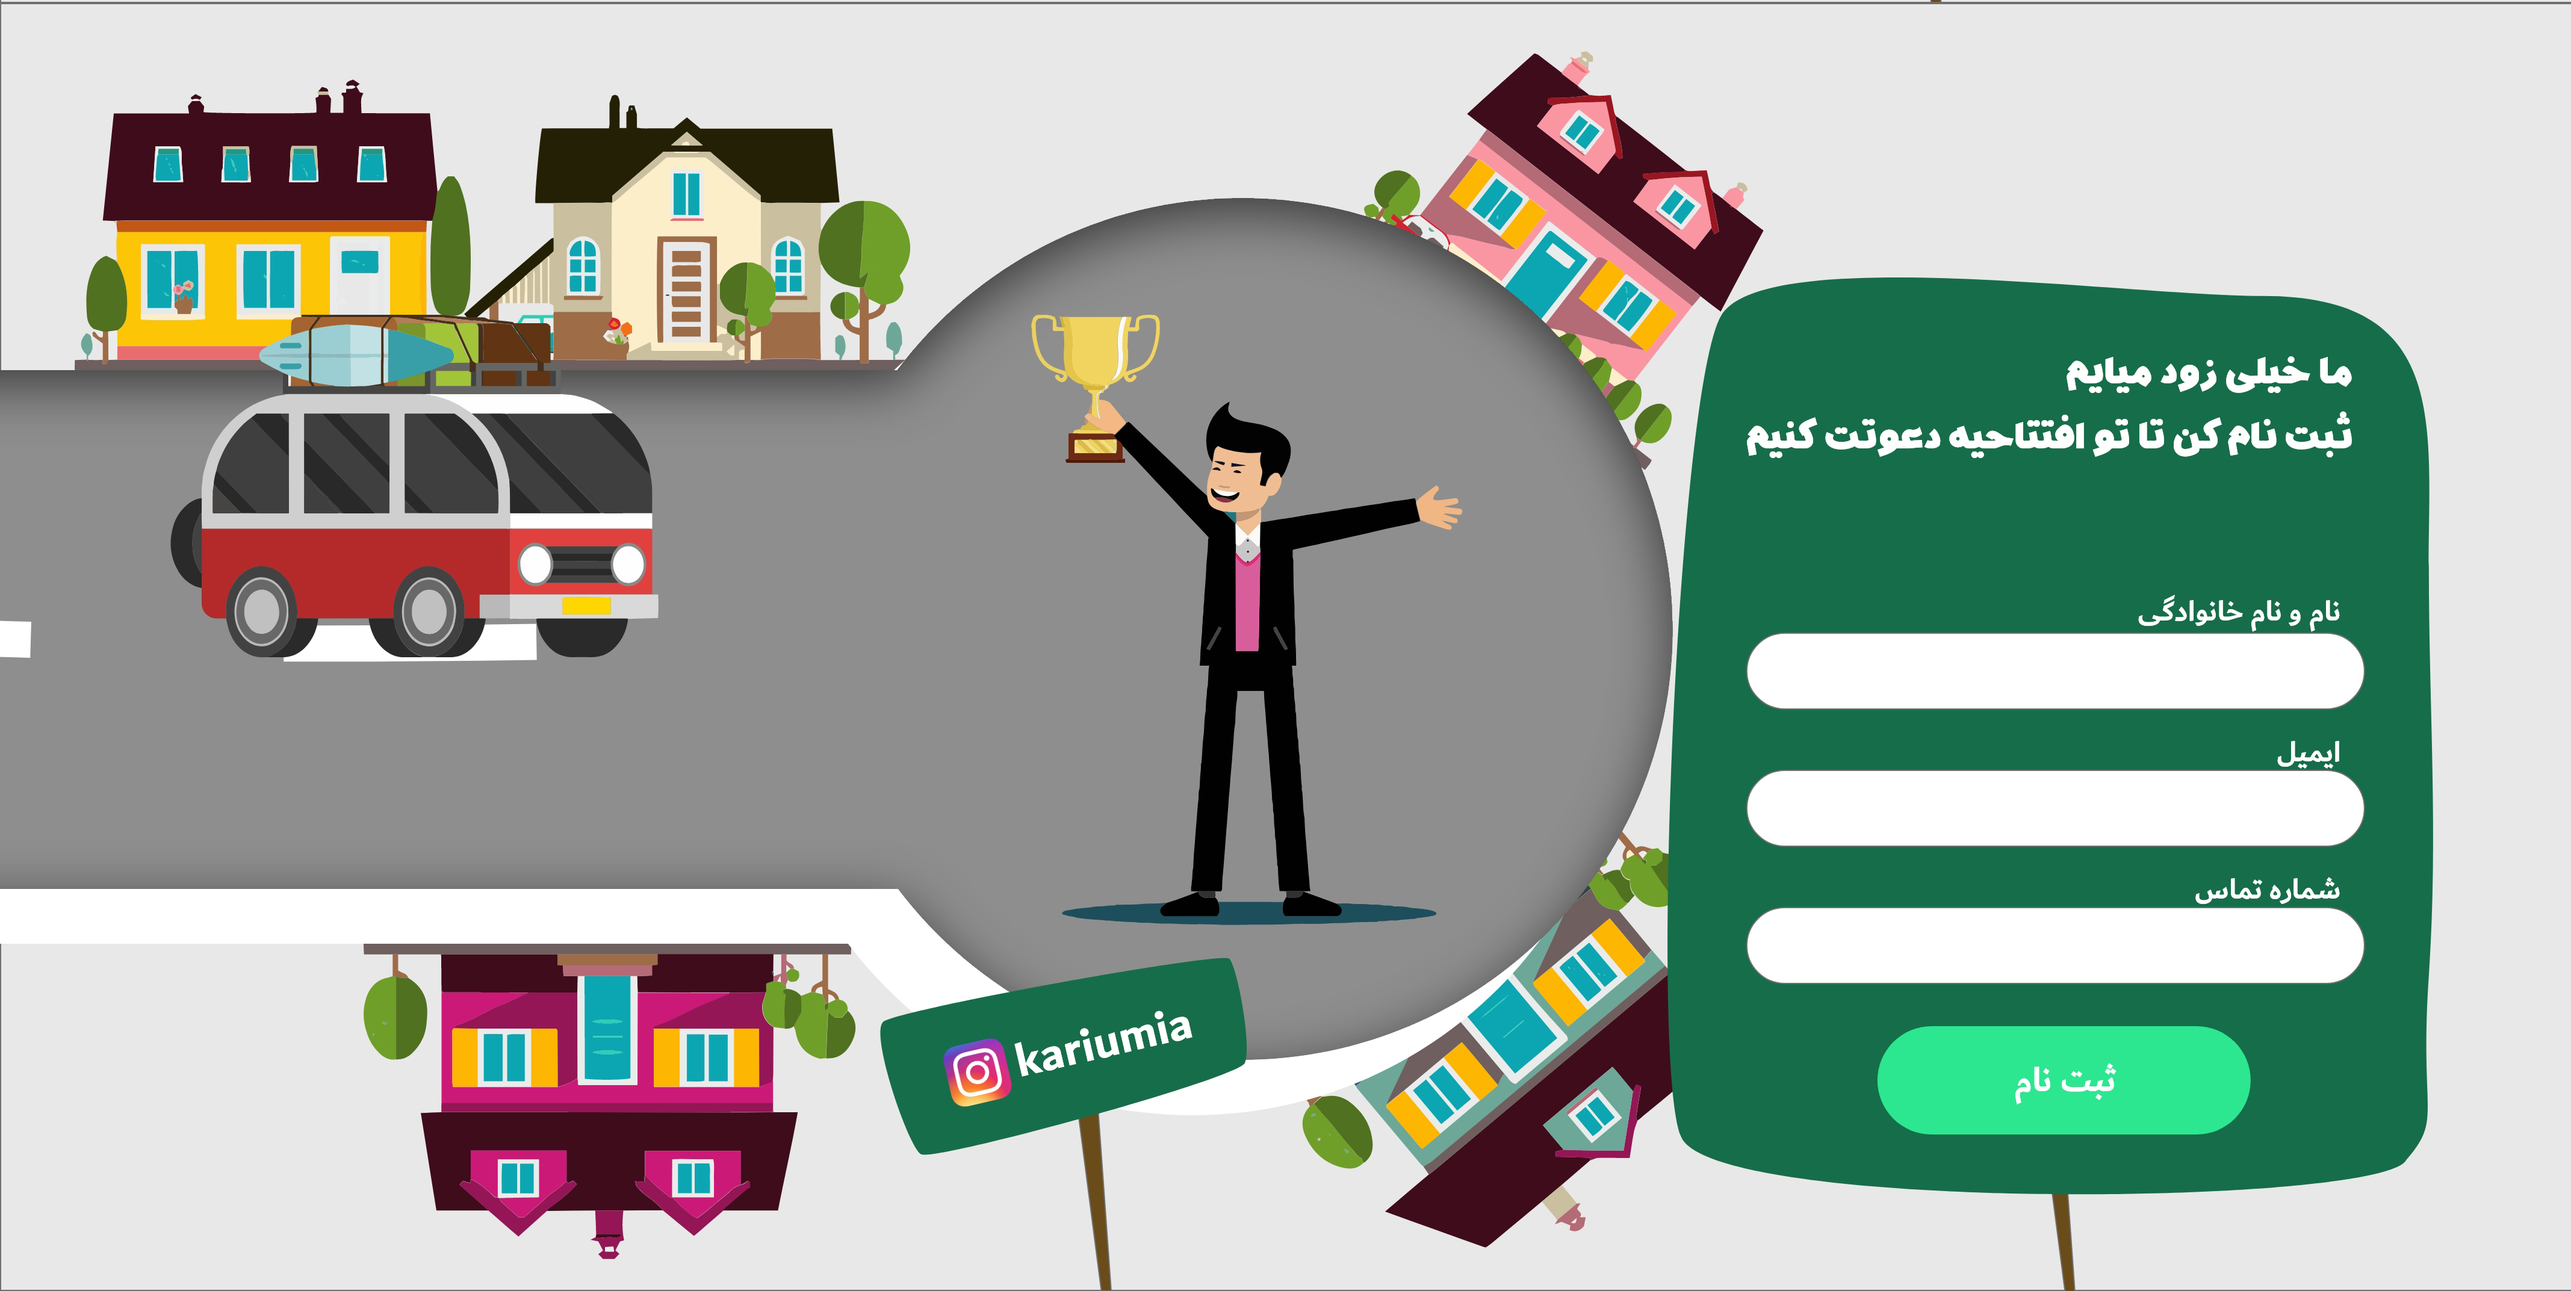
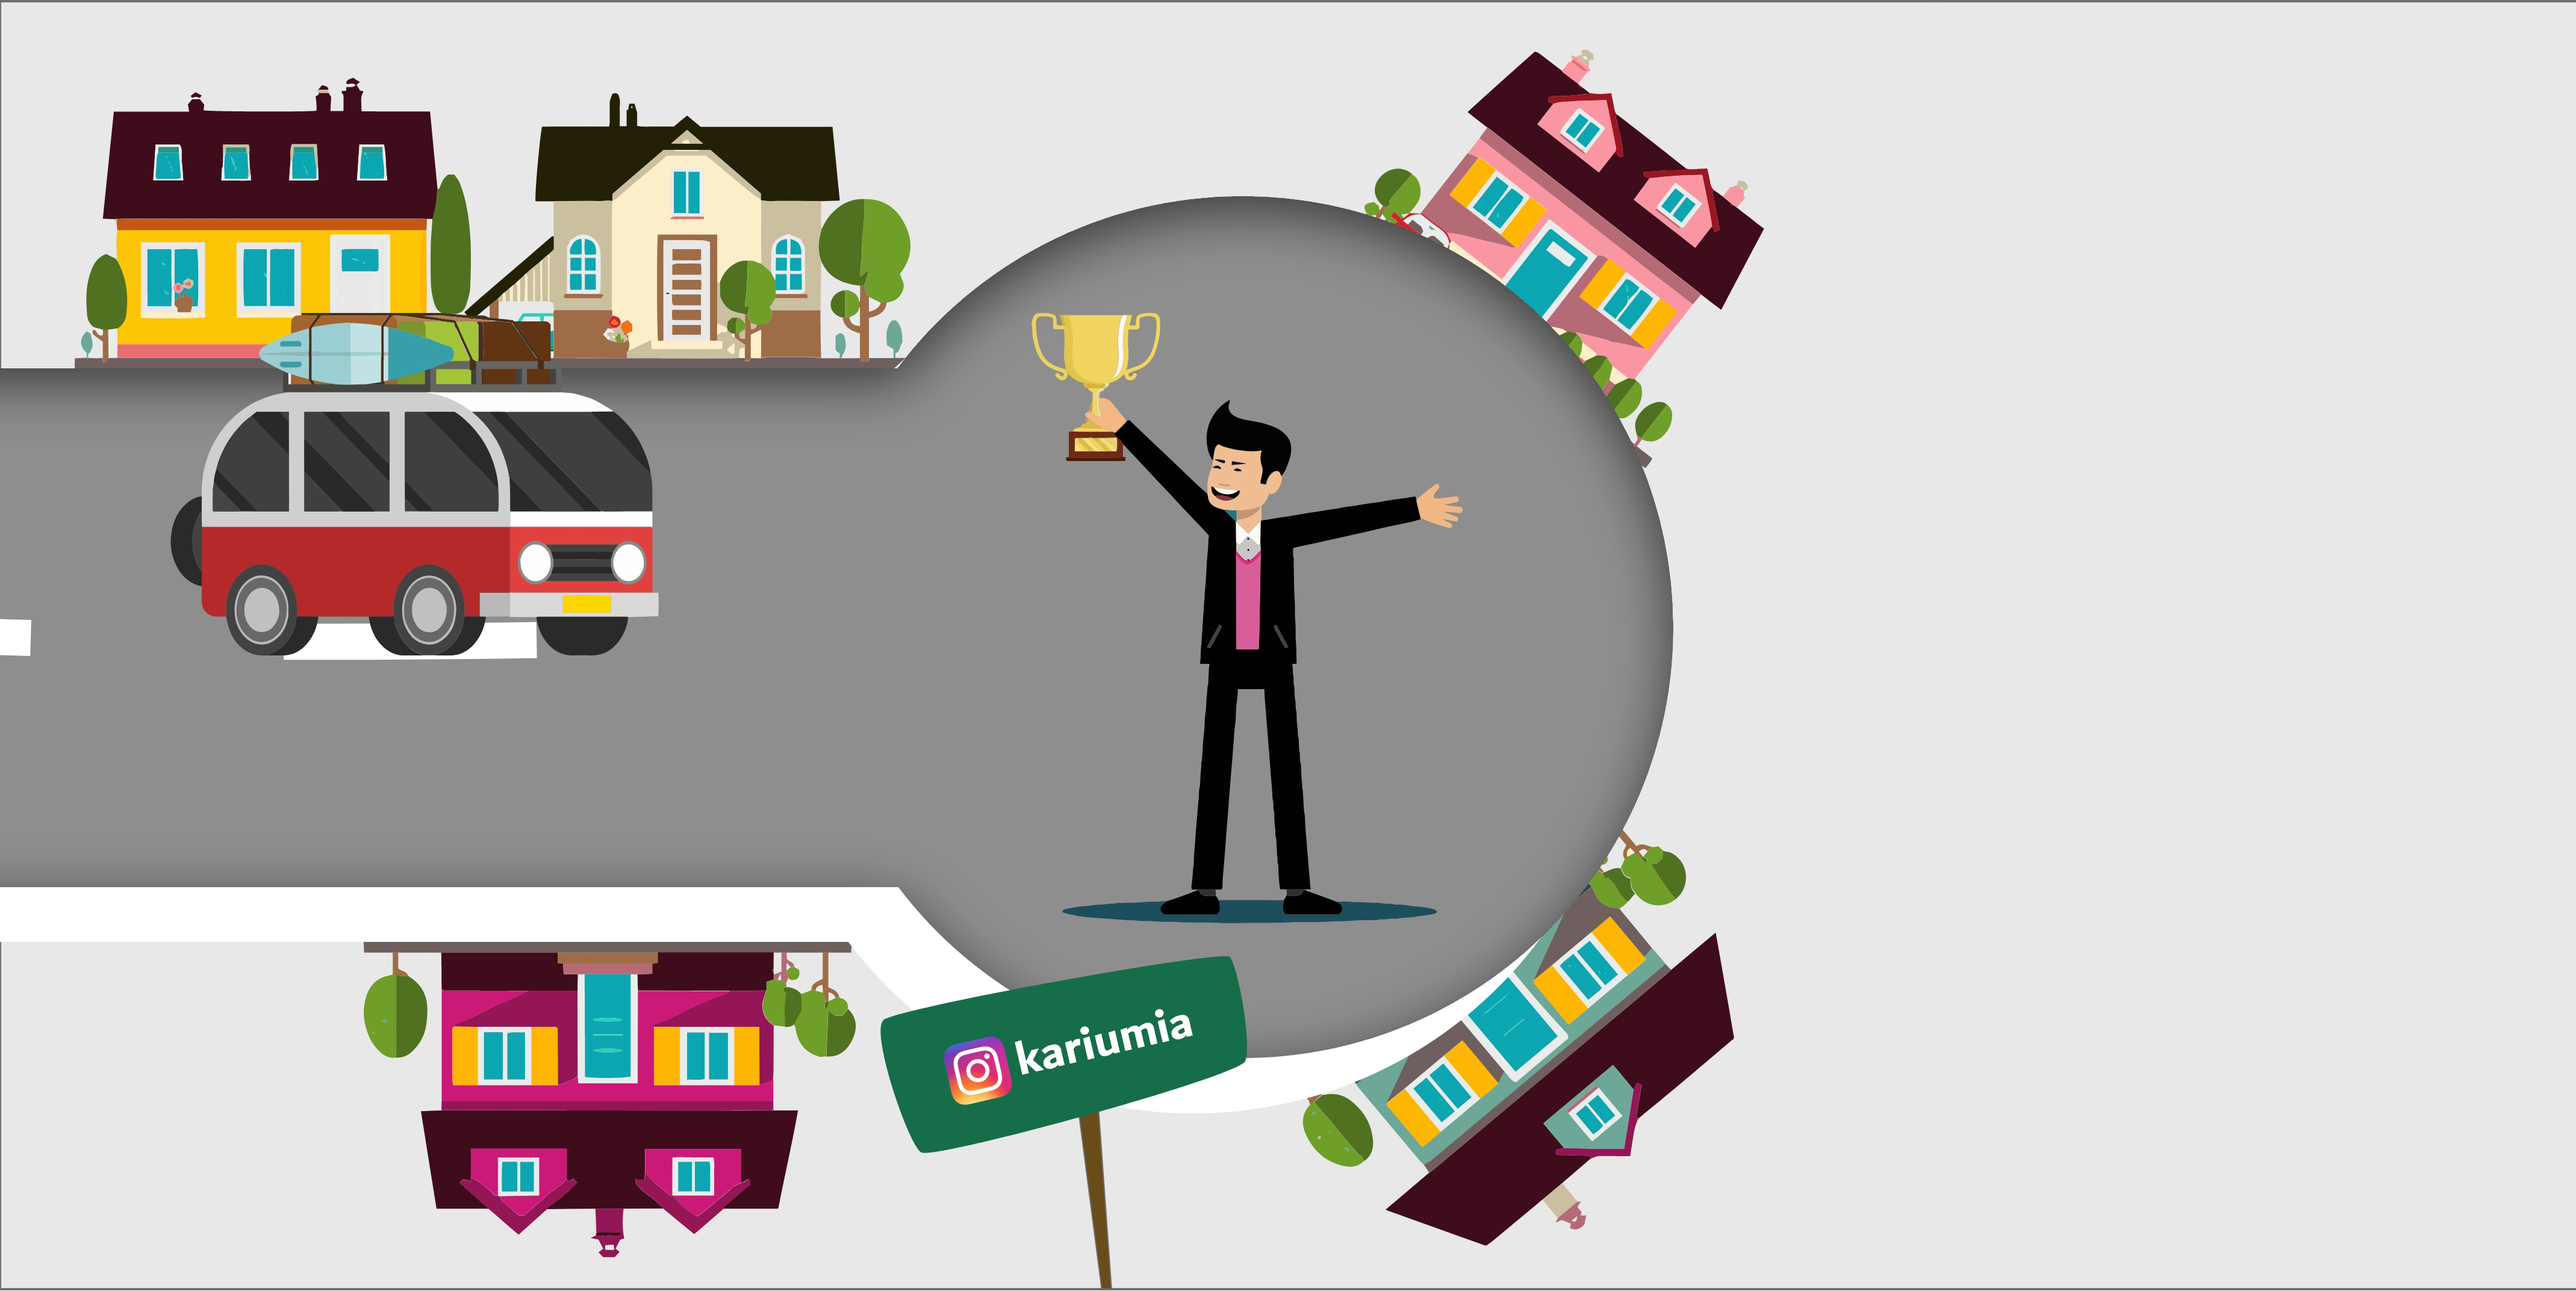
form and background height are fixed

diff --git a/src/App.css b/src/App.css
@@ -82,22 +82,28 @@
     height: 10%;
     width: 100%;
     background: url("assets/images/dialog1.png") no-repeat;
-    background-size: contain;
+    background-size: 100%;
 }
-
+/* .dialogue1{
+display: flex;
+flex-direction: row;
+width: 400px;
+position: relative;
+bottom: 40%;
+right: 30%;
+} */
 .dialogue2 {
     display: flex;
     flex-direction: column;
     height: 460px;
     width: 600px;
-    background: url("assets/images/dialog2.png") no-repeat;
-    background-size: contain;
+
 }
 
 .video {
     position: relative;
-    left: 14.2%;
-    top: 33%;
+    left: 15%;
+    top: 25%;
 }
 
 .profile {
@@ -124,7 +130,7 @@
     height: 70%;
     background-image: url("assets/images/form.png");
     background-repeat: no-repeat;
-    background-size: contain;
+    background-size: 100% 100%;
     direction: rtl;
     position: absolute;
     bottom: 0;
@@ -214,13 +220,16 @@ p {
     height: 25px;
     width: auto;
 }
-
+html{
+    height: 100%;
+}
 /* Steps Page */
 .step-1 {
     height: 100vh;
     width: auto;
     background: #e8e8e8 url("assets/images/stepOneBackground.jpg") no-repeat left;
-    background-size: 100%;
+    background-size:auto 100%;
+    overflow-x : hidden;
 }
 
 .step-1 .next-button {
@@ -248,15 +257,17 @@ p {
 .step-2 {
     height: 100vh;
     width: auto;
-    background: #e8e8e8 url("assets/images/stepTwoBackground.jpg") no-repeat right;
-    background-size: 100%;
+    background: #e8e8e8 url("assets/images/stepTwoBackground.jpg") no-repeat ;
+    background-size:auto 100%;
+    overflow-x : hidden;
 }
 
 .step-3 {
     height: 100vh;
     width: auto;
     background: #e8e8e8 url("assets/images/stepThreeBackground.jpg") no-repeat right;
-    background-size: 100%;
+    background-size:auto 100%;
+    overflow-x : hidden;
 }
 
 .step-3 .next-button {
@@ -280,7 +291,8 @@ p {
     height: 100vh;
     width: auto;
     background: #e8e8e8 url("assets/images/stepFourBackground.jpg") no-repeat;
-    background-size: 100%;
+    background-size:auto 100%;
+    overflow-x : hidden;
 }
 
 .step-4 .next-button {
@@ -293,7 +305,8 @@ p {
     height: 100vh;
     width: auto;
     background: #e8e8e8 url("assets/images/stepFiveBackground.jpg") no-repeat;
-    background-size: 100%;
+    background-size:auto 100%;
+    overflow-x : hidden;
 }
 
 .step-5 .next-button {
@@ -336,7 +349,8 @@ p {
     height: 100vh;
     width: auto;
     background: #e8e8e8 url("assets/images/stepSixBackground.jpg") no-repeat;
-    background-size: 100%;
+    background-size:auto 100%;
+    overflow-x : hidden;
 }
 
 .step-7 .next-button {
@@ -347,9 +361,10 @@ p {
 
 .step-8 {
     height: 100vh;
-    width: auto;
+    /* width: auto; */
     background: #e8e8e8 url("assets/images/stepSevenBackground.jpg") no-repeat;
-    background-size: 100%;
+    background-size:auto 100%;
+    overflow-x : hidden;
 }
 
 .step-8 .next-button {
@@ -372,7 +387,8 @@ p {
     height: 100vh;
     width: auto;
     background: #e8e8e8 url("assets/images/stepEightBackground.jpg") no-repeat;
-    background-size: 100%;
+    background-size:auto 100%;
+    overflow-x : hidden;
 }
 
 .step-9 .next-button {
@@ -394,7 +410,8 @@ p {
     height: 100vh;
     width: auto;
     background: #e8e8e8 url("assets/images/stepNineBackground.jpg") no-repeat right;
-    background-size: 100%;
+    background-size:auto 100%;
+    overflow-x : hidden;
 }
 
 .step-10 .next-button {
@@ -449,7 +466,8 @@ p {
     height: 100vh;
     width: auto;
     background: #e8e8e8 url("assets/images/stepTenBackground.jpg") no-repeat;
-    background-size: 100%;
+    background-size:auto 100%;
+    overflow-x : hidden;
     position: relative;
     align-items: center;
     color: white;

diff --git a/src/App.js b/src/App.js
@@ -15,9 +15,18 @@ import StepTenPage from "./pages/stepTenPage";
 import StepElevenPage from "./pages/stepElevenPage";
 import "./App.css";
 import PreventMobileWidget from "./widgets/preventMobileWidget";
+import { LastLocationProvider, withLastLocation,
+    WithLastLocationProps
+  } from "react-router-last-location";
 
+const styleRoute = {
+    '1-to-2' : 'bg-red-100',
+    '2-to-3' : 'bg-red-100',
+    left : 'bg-red-100',
+    right : 'bg-red-100',
+}
 
-class App extends Component {
+class App extends Component  {
     constructor(props) {
         super(props);
         this.state = {};
@@ -39,9 +48,11 @@ class App extends Component {
 
     render() {
         const {location} = this.props;
-
         const currentKey = location.pathname.split("/")[1] || "/";
         const timeout = {enter: 500, exit: 200};
+        // let stepCurrent = location.pathname.match(/\d+$/)[0];
+        // let stepPrv = lastLocation.pathname.match(/\d+$/)[0];
+        // console.log(stepCurrent,stepPrv+ "here")
 
         return this.state.isMobile ? <PreventMobileWidget/> : (
             <TransitionGroup component="div" className="App">
@@ -52,6 +63,7 @@ class App extends Component {
                     mountOnEnter={false}
                     unmountOnExit={false}>
                     <Switch location={location}>
+                        <LastLocationProvider>
                         <Route path="/" exact component={StepOnePage}/>
                         <Route path="/step2" exact component={StepTwoPage}/>
                         <Route path="/step3" exact component={StepThreePage}/>
@@ -63,6 +75,7 @@ class App extends Component {
                         <Route path="/step9" exact component={StepNinePage}/>
                         <Route path="/step10" exact component={StepTenPage}/>
                         <Route path="/step11" exact component={StepElevenPage}/>
+                        </LastLocationProvider>
                     </Switch>
                 </CSSTransition>
             </TransitionGroup>

diff --git a/src/pages/stepFivePage.jsx b/src/pages/stepFivePage.jsx
@@ -3,19 +3,23 @@ import {Link} from "react-router-dom";
 import ReactPlayer from "react-player/lazy";
 import like from "../assets/images/icon/like.png";
 import StorageHelper from "../helper/storageHelper";
+import profile from "../assets/images/icon/profile.png"
 
 export default class StepFivePage extends React.Component {
     render() {
         return (
             <div className="step-5 page">
-                <div className="video">
+
+                        {/* عکس با نوشته */}
+                    <div className="video">
                     <ReactPlayer
                         playing="true"
                         controls="true"
                         height="auto"
                         width="36%"
                         url="https://as4.cdn.asset.aparat.com/aparat-video/13eaba29fca59939a9f9a06f99ea68e827383028-480p.mp4?wmsAuthSign=eyJhbGciOiJIUzI1NiIsInR5cCI6IkpXVCJ9.eyJ0b2tlbiI6IjljZmQzMGFmNjkyOTdiNjhhODQxYzdjN2E5NWEwYjFhIiwiZXhwIjoxNjQxODYzODEyLCJpc3MiOiJTYWJhIElkZWEgR1NJRyJ9.4ZxE9u1PBVac2yCOkFNeSmvd6GruOja6VpgCjvJF8iM"
-                    /></div>
+                    />
+                    </div>
                 <Link to="/step6">
                     <div className="buttons">
                     <button className="next-button green" onClick={() => StorageHelper.addStep("1")}>

diff --git a/src/pages/stepTwoPage.jsx b/src/pages/stepTwoPage.jsx
@@ -2,9 +2,15 @@ import React from "react";
 import {Link} from "react-router-dom";
 import like from "../assets/images/icon/like.png";
 import StorageHelper from "../helper/storageHelper"
+import { withLastLocation } from 'react-router-last-location';
 
 export default class StepTwoPage extends React.Component {
     render() {
+        const { location, history } = this.props
+        // let stepCurrent = location.pathname.match(/\d+$/)[0];
+        // let stepPrv = lastLocation.pathname.match(/\d+$/)[0];
+        // console.log(stepCurrent,stepPrv+ "here")
+
         return (
             <div className="step-2 page">
                 <Link to="/step3">
